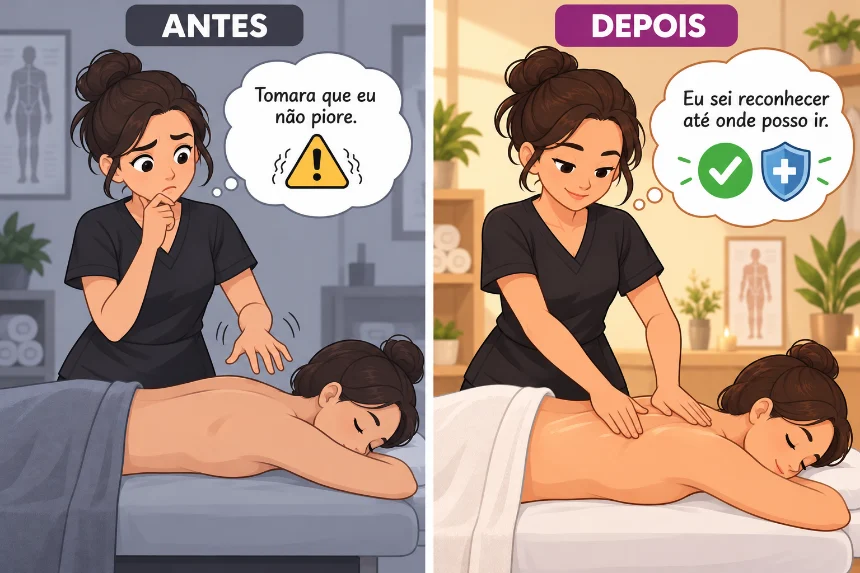
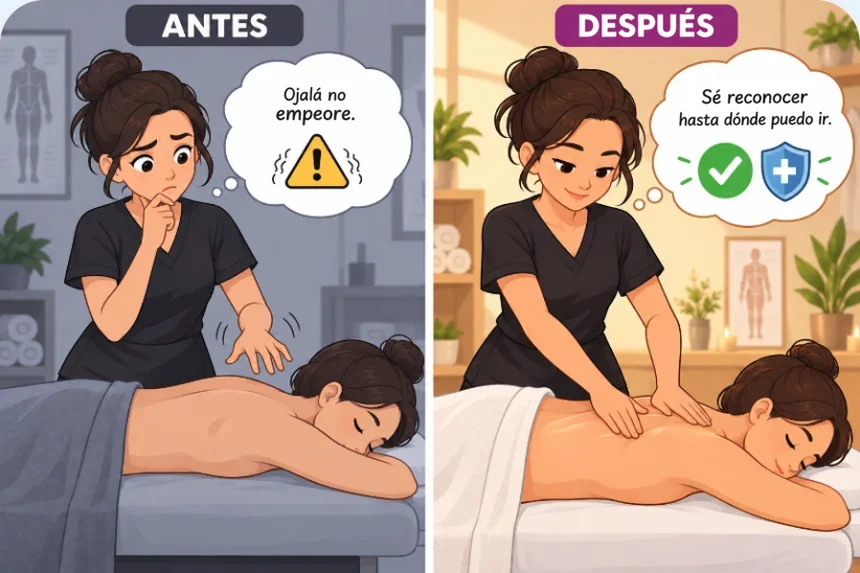
/esp/: os 4 antes e depois da v1 e da v3 entram em espanhol
As quatro ilustrações de antes e depois (inside-1 a inside-4) recebem a
versão em espanhol nas sete páginas que as usam (v1-27, -67, -97, v1-27-sf
e v3-27, -67, -97). Os textos alternativos acompanham as falas novas
("lo consulto al instante en el manual", "voy a consultar mi guía
enseguida", "ojalá no empeore", "sé reconocer hasta dónde puedo ir"). No
índice, a v1 fica só com a compra desativada e a v3 com a VSL.

diff --git a/esp/indice/index.html b/esp/indice/index.html
@@ -357,7 +357,7 @@ body {
           <a class="bloco__url" href="https://exp-gg.topcorpus.com.br/esp/lt-v1-27/"><b>gg</b> exp-gg.topcorpus.com.br/esp/lt-v1-27/</a>
         </div>
         <div class="bloco__pe">
-          <div class="falta"><span>compra desactivada</span><span>4 antes y después en portugués</span></div>
+          <div class="falta"><span>compra desactivada</span></div>
           <div class="copias">
             <button class="cp" type="button" data-copiar="https://exp-fb.topcorpus.com.br/esp/lt-v1-27/">Copiar fb</button>
             <button class="cp" type="button" data-copiar="https://exp-gg.topcorpus.com.br/esp/lt-v1-27/">Copiar gg</button>
@@ -378,7 +378,7 @@ body {
           <a class="bloco__url" href="https://exp-gg.topcorpus.com.br/esp/lt-v1-67/"><b>gg</b> exp-gg.topcorpus.com.br/esp/lt-v1-67/</a>
         </div>
         <div class="bloco__pe">
-          <div class="falta"><span>compra desactivada</span><span>4 antes y después en portugués</span></div>
+          <div class="falta"><span>compra desactivada</span></div>
           <div class="copias">
             <button class="cp" type="button" data-copiar="https://exp-fb.topcorpus.com.br/esp/lt-v1-67/">Copiar fb</button>
             <button class="cp" type="button" data-copiar="https://exp-gg.topcorpus.com.br/esp/lt-v1-67/">Copiar gg</button>
@@ -399,7 +399,7 @@ body {
           <a class="bloco__url" href="https://exp-gg.topcorpus.com.br/esp/lt-v1-97/"><b>gg</b> exp-gg.topcorpus.com.br/esp/lt-v1-97/</a>
         </div>
         <div class="bloco__pe">
-          <div class="falta"><span>compra desactivada</span><span>4 antes y después en portugués</span></div>
+          <div class="falta"><span>compra desactivada</span></div>
           <div class="copias">
             <button class="cp" type="button" data-copiar="https://exp-fb.topcorpus.com.br/esp/lt-v1-97/">Copiar fb</button>
             <button class="cp" type="button" data-copiar="https://exp-gg.topcorpus.com.br/esp/lt-v1-97/">Copiar gg</button>
@@ -507,7 +507,7 @@ body {
           <a class="bloco__url" href="https://exp-gg.topcorpus.com.br/esp/lt-v3-27/"><b>gg</b> exp-gg.topcorpus.com.br/esp/lt-v3-27/</a>
         </div>
         <div class="bloco__pe">
-          <div class="falta"><span>compra desactivada</span><span>4 antes y después y el VSL en portugués</span></div>
+          <div class="falta"><span>compra desactivada</span><span>VSL en portugués</span></div>
           <div class="copias">
             <button class="cp" type="button" data-copiar="https://exp-fb.topcorpus.com.br/esp/lt-v3-27/">Copiar fb</button>
             <button class="cp" type="button" data-copiar="https://exp-gg.topcorpus.com.br/esp/lt-v3-27/">Copiar gg</button>
@@ -528,7 +528,7 @@ body {
           <a class="bloco__url" href="https://exp-gg.topcorpus.com.br/esp/lt-v3-67/"><b>gg</b> exp-gg.topcorpus.com.br/esp/lt-v3-67/</a>
         </div>
         <div class="bloco__pe">
-          <div class="falta"><span>compra desactivada</span><span>4 antes y después y el VSL en portugués</span></div>
+          <div class="falta"><span>compra desactivada</span><span>VSL en portugués</span></div>
           <div class="copias">
             <button class="cp" type="button" data-copiar="https://exp-fb.topcorpus.com.br/esp/lt-v3-67/">Copiar fb</button>
             <button class="cp" type="button" data-copiar="https://exp-gg.topcorpus.com.br/esp/lt-v3-67/">Copiar gg</button>
@@ -549,7 +549,7 @@ body {
           <a class="bloco__url" href="https://exp-gg.topcorpus.com.br/esp/lt-v3-97/"><b>gg</b> exp-gg.topcorpus.com.br/esp/lt-v3-97/</a>
         </div>
         <div class="bloco__pe">
-          <div class="falta"><span>compra desactivada</span><span>4 antes y después y el VSL en portugués</span></div>
+          <div class="falta"><span>compra desactivada</span><span>VSL en portugués</span></div>
           <div class="copias">
             <button class="cp" type="button" data-copiar="https://exp-fb.topcorpus.com.br/esp/lt-v3-97/">Copiar fb</button>
             <button class="cp" type="button" data-copiar="https://exp-gg.topcorpus.com.br/esp/lt-v3-97/">Copiar gg</button>
@@ -636,7 +636,7 @@ body {
           <a class="bloco__url" href="https://exp-gg.topcorpus.com.br/esp/lt-v1-27-sf/"><b>gg</b> exp-gg.topcorpus.com.br/esp/lt-v1-27-sf/</a>
         </div>
         <div class="bloco__pe">
-          <div class="falta"><span>compra desactivada</span><span>4 antes y después en portugués</span></div>
+          <div class="falta"><span>compra desactivada</span></div>
           <div class="copias">
             <button class="cp" type="button" data-copiar="https://exp-fb.topcorpus.com.br/esp/lt-v1-27-sf/">Copiar fb</button>
             <button class="cp" type="button" data-copiar="https://exp-gg.topcorpus.com.br/esp/lt-v1-27-sf/">Copiar gg</button>

diff --git a/esp/lt-v1-27-sf/index.html b/esp/lt-v1-27-sf/index.html
@@ -130,7 +130,7 @@
           <article class="tp-inside__card" data-reveal>
             <div class="tp-inside__media">
               <img src="assets/img/inside-1-aplicacoes.webp"
-                   alt="Antes y después. Antes: la masajista interrumpe la sesión y piensa &ldquo;tengo que buscar un video para saber la respuesta ya&rdquo;. Después: sigue dando el masaje y piensa &ldquo;lo consulto directo en el manual, en el momento&rdquo;."
+                   alt="Antes y después. Antes: la masajista interrumpe la sesión y piensa &ldquo;necesito buscar un video para saber la respuesta ahora&rdquo;. Después: sigue dando el masaje y piensa &ldquo;lo consulto al instante en el manual&rdquo;."
                    width="860" height="573" loading="lazy" decoding="async" />
             </div>
             <p class="tp-inside__text"><strong>Más de 70 maniobras para tratar distintas regiones del cuerpo.</strong> Para cada una: dónde duele, dónde tocar, cómo tocar, qué presión usar y por cuánto tiempo.</p>
@@ -139,7 +139,7 @@
           <article class="tp-inside__card" data-reveal>
             <div class="tp-inside__media">
               <img src="assets/img/inside-2-cobertura.webp"
-                   alt="Antes y después. Antes: la masajista detiene la sesión y piensa &ldquo;tengo que buscar un video&rdquo;. Después: señala el punto exacto en la espalda de la clienta, con la musculatura resaltada, y piensa &ldquo;déjame abrir mi referencia rapidito&rdquo;."
+                   alt="Antes y después. Antes: la masajista detiene la sesión y piensa &ldquo;necesito buscar un video&rdquo;. Después: señala el punto exacto en la espalda de la clienta, con la musculatura resaltada, y piensa &ldquo;voy a consultar mi guía enseguida&rdquo;."
                    width="860" height="573" loading="lazy" decoding="async" />
             </div>
             <p class="tp-inside__text"><strong>No importa dónde esté el dolor, vas a saber resolverlo.</strong> Vas directo a la región que necesitas, de la cabeza a los pies, sin buscar videos guardados en el celular, capturas de pantalla ni notas sueltas.</p>
@@ -157,7 +157,7 @@
           <article class="tp-inside__card" data-reveal>
             <div class="tp-inside__media">
               <img src="assets/img/inside-4-seguranca.webp"
-                   alt="Antes y después. Antes: la masajista duda frente a una señal de alerta y piensa &ldquo;ojalá no lo empeore&rdquo;. Después: atiende con seguridad y piensa &ldquo;sé reconocer hasta dónde puedo llegar&rdquo;."
+                   alt="Antes y después. Antes: la masajista duda frente a una señal de alerta y piensa &ldquo;ojalá no empeore&rdquo;. Después: atiende con seguridad y piensa &ldquo;sé reconocer hasta dónde puedo ir&rdquo;."
                    width="860" height="573" loading="lazy" decoding="async" />
             </div>
             <p class="tp-inside__text"><strong>Alertas de seguridad.</strong> El manual muestra cuándo <strong>NO</strong> dar masaje: inflamación, sospecha de fractura, señales de trombosis y otras situaciones que piden más cuidado, para que no te quedes con la duda de si puedes tocar ahí.</p>

diff --git a/esp/lt-v1-27/index.html b/esp/lt-v1-27/index.html
@@ -130,7 +130,7 @@
           <article class="tp-inside__card" data-reveal>
             <div class="tp-inside__media">
               <img src="assets/img/inside-1-aplicacoes.webp"
-                   alt="Antes y después. Antes: la masajista interrumpe la sesión y piensa &ldquo;tengo que buscar un video para saber la respuesta ya&rdquo;. Después: sigue dando el masaje y piensa &ldquo;lo consulto directo en el manual, en el momento&rdquo;."
+                   alt="Antes y después. Antes: la masajista interrumpe la sesión y piensa &ldquo;necesito buscar un video para saber la respuesta ahora&rdquo;. Después: sigue dando el masaje y piensa &ldquo;lo consulto al instante en el manual&rdquo;."
                    width="860" height="573" loading="lazy" decoding="async" />
             </div>
             <p class="tp-inside__text"><strong>Más de 70 maniobras para tratar distintas regiones del cuerpo.</strong> Para cada una: dónde duele, dónde tocar, cómo tocar, qué presión usar y por cuánto tiempo.</p>
@@ -139,7 +139,7 @@
           <article class="tp-inside__card" data-reveal>
             <div class="tp-inside__media">
               <img src="assets/img/inside-2-cobertura.webp"
-                   alt="Antes y después. Antes: la masajista detiene la sesión y piensa &ldquo;tengo que buscar un video&rdquo;. Después: señala el punto exacto en la espalda de la clienta, con la musculatura resaltada, y piensa &ldquo;déjame abrir mi referencia rapidito&rdquo;."
+                   alt="Antes y después. Antes: la masajista detiene la sesión y piensa &ldquo;necesito buscar un video&rdquo;. Después: señala el punto exacto en la espalda de la clienta, con la musculatura resaltada, y piensa &ldquo;voy a consultar mi guía enseguida&rdquo;."
                    width="860" height="573" loading="lazy" decoding="async" />
             </div>
             <p class="tp-inside__text"><strong>No importa dónde esté el dolor, vas a saber resolverlo.</strong> Vas directo a la región que necesitas, de la cabeza a los pies, sin buscar videos guardados en el celular, capturas de pantalla ni notas sueltas.</p>
@@ -157,7 +157,7 @@
           <article class="tp-inside__card" data-reveal>
             <div class="tp-inside__media">
               <img src="assets/img/inside-4-seguranca.webp"
-                   alt="Antes y después. Antes: la masajista duda frente a una señal de alerta y piensa &ldquo;ojalá no lo empeore&rdquo;. Después: atiende con seguridad y piensa &ldquo;sé reconocer hasta dónde puedo llegar&rdquo;."
+                   alt="Antes y después. Antes: la masajista duda frente a una señal de alerta y piensa &ldquo;ojalá no empeore&rdquo;. Después: atiende con seguridad y piensa &ldquo;sé reconocer hasta dónde puedo ir&rdquo;."
                    width="860" height="573" loading="lazy" decoding="async" />
             </div>
             <p class="tp-inside__text"><strong>Alertas de seguridad.</strong> El manual muestra cuándo <strong>NO</strong> dar masaje: inflamación, sospecha de fractura, señales de trombosis y otras situaciones que piden más cuidado, para que no te quedes con la duda de si puedes tocar ahí.</p>

diff --git a/esp/lt-v1-67/index.html b/esp/lt-v1-67/index.html
@@ -130,7 +130,7 @@
           <article class="tp-inside__card" data-reveal>
             <div class="tp-inside__media">
               <img src="assets/img/inside-1-aplicacoes.webp"
-                   alt="Antes y después. Antes: la masajista interrumpe la sesión y piensa &ldquo;tengo que buscar un video para saber la respuesta ya&rdquo;. Después: sigue dando el masaje y piensa &ldquo;lo consulto directo en el manual, en el momento&rdquo;."
+                   alt="Antes y después. Antes: la masajista interrumpe la sesión y piensa &ldquo;necesito buscar un video para saber la respuesta ahora&rdquo;. Después: sigue dando el masaje y piensa &ldquo;lo consulto al instante en el manual&rdquo;."
                    width="860" height="573" loading="lazy" decoding="async" />
             </div>
             <p class="tp-inside__text"><strong>Más de 70 maniobras para tratar distintas regiones del cuerpo.</strong> Para cada una: dónde duele, dónde tocar, cómo tocar, qué presión usar y por cuánto tiempo.</p>
@@ -139,7 +139,7 @@
           <article class="tp-inside__card" data-reveal>
             <div class="tp-inside__media">
               <img src="assets/img/inside-2-cobertura.webp"
-                   alt="Antes y después. Antes: la masajista detiene la sesión y piensa &ldquo;tengo que buscar un video&rdquo;. Después: señala el punto exacto en la espalda de la clienta, con la musculatura resaltada, y piensa &ldquo;déjame abrir mi referencia rapidito&rdquo;."
+                   alt="Antes y después. Antes: la masajista detiene la sesión y piensa &ldquo;necesito buscar un video&rdquo;. Después: señala el punto exacto en la espalda de la clienta, con la musculatura resaltada, y piensa &ldquo;voy a consultar mi guía enseguida&rdquo;."
                    width="860" height="573" loading="lazy" decoding="async" />
             </div>
             <p class="tp-inside__text"><strong>No importa dónde esté el dolor, vas a saber resolverlo.</strong> Vas directo a la región que necesitas, de la cabeza a los pies, sin buscar videos guardados en el celular, capturas de pantalla ni notas sueltas.</p>
@@ -157,7 +157,7 @@
           <article class="tp-inside__card" data-reveal>
             <div class="tp-inside__media">
               <img src="assets/img/inside-4-seguranca.webp"
-                   alt="Antes y después. Antes: la masajista duda frente a una señal de alerta y piensa &ldquo;ojalá no lo empeore&rdquo;. Después: atiende con seguridad y piensa &ldquo;sé reconocer hasta dónde puedo llegar&rdquo;."
+                   alt="Antes y después. Antes: la masajista duda frente a una señal de alerta y piensa &ldquo;ojalá no empeore&rdquo;. Después: atiende con seguridad y piensa &ldquo;sé reconocer hasta dónde puedo ir&rdquo;."
                    width="860" height="573" loading="lazy" decoding="async" />
             </div>
             <p class="tp-inside__text"><strong>Alertas de seguridad.</strong> El manual muestra cuándo <strong>NO</strong> dar masaje: inflamación, sospecha de fractura, señales de trombosis y otras situaciones que piden más cuidado, para que no te quedes con la duda de si puedes tocar ahí.</p>

diff --git a/esp/lt-v1-97/index.html b/esp/lt-v1-97/index.html
@@ -130,7 +130,7 @@
           <article class="tp-inside__card" data-reveal>
             <div class="tp-inside__media">
               <img src="assets/img/inside-1-aplicacoes.webp"
-                   alt="Antes y después. Antes: la masajista interrumpe la sesión y piensa &ldquo;tengo que buscar un video para saber la respuesta ya&rdquo;. Después: sigue dando el masaje y piensa &ldquo;lo consulto directo en el manual, en el momento&rdquo;."
+                   alt="Antes y después. Antes: la masajista interrumpe la sesión y piensa &ldquo;necesito buscar un video para saber la respuesta ahora&rdquo;. Después: sigue dando el masaje y piensa &ldquo;lo consulto al instante en el manual&rdquo;."
                    width="860" height="573" loading="lazy" decoding="async" />
             </div>
             <p class="tp-inside__text"><strong>Más de 70 maniobras para tratar distintas regiones del cuerpo.</strong> Para cada una: dónde duele, dónde tocar, cómo tocar, qué presión usar y por cuánto tiempo.</p>
@@ -139,7 +139,7 @@
           <article class="tp-inside__card" data-reveal>
             <div class="tp-inside__media">
               <img src="assets/img/inside-2-cobertura.webp"
-                   alt="Antes y después. Antes: la masajista detiene la sesión y piensa &ldquo;tengo que buscar un video&rdquo;. Después: señala el punto exacto en la espalda de la clienta, con la musculatura resaltada, y piensa &ldquo;déjame abrir mi referencia rapidito&rdquo;."
+                   alt="Antes y después. Antes: la masajista detiene la sesión y piensa &ldquo;necesito buscar un video&rdquo;. Después: señala el punto exacto en la espalda de la clienta, con la musculatura resaltada, y piensa &ldquo;voy a consultar mi guía enseguida&rdquo;."
                    width="860" height="573" loading="lazy" decoding="async" />
             </div>
             <p class="tp-inside__text"><strong>No importa dónde esté el dolor, vas a saber resolverlo.</strong> Vas directo a la región que necesitas, de la cabeza a los pies, sin buscar videos guardados en el celular, capturas de pantalla ni notas sueltas.</p>
@@ -157,7 +157,7 @@
           <article class="tp-inside__card" data-reveal>
             <div class="tp-inside__media">
               <img src="assets/img/inside-4-seguranca.webp"
-                   alt="Antes y después. Antes: la masajista duda frente a una señal de alerta y piensa &ldquo;ojalá no lo empeore&rdquo;. Después: atiende con seguridad y piensa &ldquo;sé reconocer hasta dónde puedo llegar&rdquo;."
+                   alt="Antes y después. Antes: la masajista duda frente a una señal de alerta y piensa &ldquo;ojalá no empeore&rdquo;. Después: atiende con seguridad y piensa &ldquo;sé reconocer hasta dónde puedo ir&rdquo;."
                    width="860" height="573" loading="lazy" decoding="async" />
             </div>
             <p class="tp-inside__text"><strong>Alertas de seguridad.</strong> El manual muestra cuándo <strong>NO</strong> dar masaje: inflamación, sospecha de fractura, señales de trombosis y otras situaciones que piden más cuidado, para que no te quedes con la duda de si puedes tocar ahí.</p>

diff --git a/esp/lt-v3-27/index.html b/esp/lt-v3-27/index.html
@@ -138,7 +138,7 @@
           <article class="tp-inside__card" data-reveal>
             <div class="tp-inside__media">
               <img src="assets/img/inside-1-aplicacoes.webp"
-                   alt="Antes y después. Antes: la masajista interrumpe la sesión y piensa &ldquo;tengo que buscar un video para saber la respuesta ya&rdquo;. Después: sigue dando el masaje y piensa &ldquo;lo consulto directo en el manual, en el momento&rdquo;."
+                   alt="Antes y después. Antes: la masajista interrumpe la sesión y piensa &ldquo;necesito buscar un video para saber la respuesta ahora&rdquo;. Después: sigue dando el masaje y piensa &ldquo;lo consulto al instante en el manual&rdquo;."
                    width="860" height="573" loading="lazy" decoding="async" />
             </div>
             <p class="tp-inside__text"><strong>Más de 70 maniobras para tratar distintas regiones del cuerpo.</strong> Para cada una: dónde duele, dónde tocar, cómo tocar, qué presión usar y por cuánto tiempo.</p>
@@ -147,7 +147,7 @@
           <article class="tp-inside__card" data-reveal>
             <div class="tp-inside__media">
               <img src="assets/img/inside-2-cobertura.webp"
-                   alt="Antes y después. Antes: la masajista detiene la sesión y piensa &ldquo;tengo que buscar un video&rdquo;. Después: señala el punto exacto en la espalda de la clienta, con la musculatura resaltada, y piensa &ldquo;déjame abrir mi referencia rapidito&rdquo;."
+                   alt="Antes y después. Antes: la masajista detiene la sesión y piensa &ldquo;necesito buscar un video&rdquo;. Después: señala el punto exacto en la espalda de la clienta, con la musculatura resaltada, y piensa &ldquo;voy a consultar mi guía enseguida&rdquo;."
                    width="860" height="573" loading="lazy" decoding="async" />
             </div>
             <p class="tp-inside__text"><strong>No importa dónde esté el dolor, vas a saber resolverlo.</strong> Vas directo a la región que necesitas, de la cabeza a los pies, sin buscar videos guardados en el celular, capturas de pantalla ni notas sueltas.</p>
@@ -165,7 +165,7 @@
           <article class="tp-inside__card" data-reveal>
             <div class="tp-inside__media">
               <img src="assets/img/inside-4-seguranca.webp"
-                   alt="Antes y después. Antes: la masajista duda frente a una señal de alerta y piensa &ldquo;ojalá no lo empeore&rdquo;. Después: atiende con seguridad y piensa &ldquo;sé reconocer hasta dónde puedo llegar&rdquo;."
+                   alt="Antes y después. Antes: la masajista duda frente a una señal de alerta y piensa &ldquo;ojalá no empeore&rdquo;. Después: atiende con seguridad y piensa &ldquo;sé reconocer hasta dónde puedo ir&rdquo;."
                    width="860" height="573" loading="lazy" decoding="async" />
             </div>
             <p class="tp-inside__text"><strong>Alertas de seguridad.</strong> El manual muestra cuándo <strong>NO</strong> dar masaje: inflamación, sospecha de fractura, señales de trombosis y otras situaciones que piden más cuidado, para que no te quedes con la duda de si puedes tocar ahí.</p>

diff --git a/esp/lt-v3-67/index.html b/esp/lt-v3-67/index.html
@@ -138,7 +138,7 @@
           <article class="tp-inside__card" data-reveal>
             <div class="tp-inside__media">
               <img src="assets/img/inside-1-aplicacoes.webp"
-                   alt="Antes y después. Antes: la masajista interrumpe la sesión y piensa &ldquo;tengo que buscar un video para saber la respuesta ya&rdquo;. Después: sigue dando el masaje y piensa &ldquo;lo consulto directo en el manual, en el momento&rdquo;."
+                   alt="Antes y después. Antes: la masajista interrumpe la sesión y piensa &ldquo;necesito buscar un video para saber la respuesta ahora&rdquo;. Después: sigue dando el masaje y piensa &ldquo;lo consulto al instante en el manual&rdquo;."
                    width="860" height="573" loading="lazy" decoding="async" />
             </div>
             <p class="tp-inside__text"><strong>Más de 70 maniobras para tratar distintas regiones del cuerpo.</strong> Para cada una: dónde duele, dónde tocar, cómo tocar, qué presión usar y por cuánto tiempo.</p>
@@ -147,7 +147,7 @@
           <article class="tp-inside__card" data-reveal>
             <div class="tp-inside__media">
               <img src="assets/img/inside-2-cobertura.webp"
-                   alt="Antes y después. Antes: la masajista detiene la sesión y piensa &ldquo;tengo que buscar un video&rdquo;. Después: señala el punto exacto en la espalda de la clienta, con la musculatura resaltada, y piensa &ldquo;déjame abrir mi referencia rapidito&rdquo;."
+                   alt="Antes y después. Antes: la masajista detiene la sesión y piensa &ldquo;necesito buscar un video&rdquo;. Después: señala el punto exacto en la espalda de la clienta, con la musculatura resaltada, y piensa &ldquo;voy a consultar mi guía enseguida&rdquo;."
                    width="860" height="573" loading="lazy" decoding="async" />
             </div>
             <p class="tp-inside__text"><strong>No importa dónde esté el dolor, vas a saber resolverlo.</strong> Vas directo a la región que necesitas, de la cabeza a los pies, sin buscar videos guardados en el celular, capturas de pantalla ni notas sueltas.</p>
@@ -165,7 +165,7 @@
           <article class="tp-inside__card" data-reveal>
             <div class="tp-inside__media">
               <img src="assets/img/inside-4-seguranca.webp"
-                   alt="Antes y después. Antes: la masajista duda frente a una señal de alerta y piensa &ldquo;ojalá no lo empeore&rdquo;. Después: atiende con seguridad y piensa &ldquo;sé reconocer hasta dónde puedo llegar&rdquo;."
+                   alt="Antes y después. Antes: la masajista duda frente a una señal de alerta y piensa &ldquo;ojalá no empeore&rdquo;. Después: atiende con seguridad y piensa &ldquo;sé reconocer hasta dónde puedo ir&rdquo;."
                    width="860" height="573" loading="lazy" decoding="async" />
             </div>
             <p class="tp-inside__text"><strong>Alertas de seguridad.</strong> El manual muestra cuándo <strong>NO</strong> dar masaje: inflamación, sospecha de fractura, señales de trombosis y otras situaciones que piden más cuidado, para que no te quedes con la duda de si puedes tocar ahí.</p>

diff --git a/esp/lt-v3-97/index.html b/esp/lt-v3-97/index.html
@@ -138,7 +138,7 @@
           <article class="tp-inside__card" data-reveal>
             <div class="tp-inside__media">
               <img src="assets/img/inside-1-aplicacoes.webp"
-                   alt="Antes y después. Antes: la masajista interrumpe la sesión y piensa &ldquo;tengo que buscar un video para saber la respuesta ya&rdquo;. Después: sigue dando el masaje y piensa &ldquo;lo consulto directo en el manual, en el momento&rdquo;."
+                   alt="Antes y después. Antes: la masajista interrumpe la sesión y piensa &ldquo;necesito buscar un video para saber la respuesta ahora&rdquo;. Después: sigue dando el masaje y piensa &ldquo;lo consulto al instante en el manual&rdquo;."
                    width="860" height="573" loading="lazy" decoding="async" />
             </div>
             <p class="tp-inside__text"><strong>Más de 70 maniobras para tratar distintas regiones del cuerpo.</strong> Para cada una: dónde duele, dónde tocar, cómo tocar, qué presión usar y por cuánto tiempo.</p>
@@ -147,7 +147,7 @@
           <article class="tp-inside__card" data-reveal>
             <div class="tp-inside__media">
               <img src="assets/img/inside-2-cobertura.webp"
-                   alt="Antes y después. Antes: la masajista detiene la sesión y piensa &ldquo;tengo que buscar un video&rdquo;. Después: señala el punto exacto en la espalda de la clienta, con la musculatura resaltada, y piensa &ldquo;déjame abrir mi referencia rapidito&rdquo;."
+                   alt="Antes y después. Antes: la masajista detiene la sesión y piensa &ldquo;necesito buscar un video&rdquo;. Después: señala el punto exacto en la espalda de la clienta, con la musculatura resaltada, y piensa &ldquo;voy a consultar mi guía enseguida&rdquo;."
                    width="860" height="573" loading="lazy" decoding="async" />
             </div>
             <p class="tp-inside__text"><strong>No importa dónde esté el dolor, vas a saber resolverlo.</strong> Vas directo a la región que necesitas, de la cabeza a los pies, sin buscar videos guardados en el celular, capturas de pantalla ni notas sueltas.</p>
@@ -165,7 +165,7 @@
           <article class="tp-inside__card" data-reveal>
             <div class="tp-inside__media">
               <img src="assets/img/inside-4-seguranca.webp"
-                   alt="Antes y después. Antes: la masajista duda frente a una señal de alerta y piensa &ldquo;ojalá no lo empeore&rdquo;. Después: atiende con seguridad y piensa &ldquo;sé reconocer hasta dónde puedo llegar&rdquo;."
+                   alt="Antes y después. Antes: la masajista duda frente a una señal de alerta y piensa &ldquo;ojalá no empeore&rdquo;. Después: atiende con seguridad y piensa &ldquo;sé reconocer hasta dónde puedo ir&rdquo;."
                    width="860" height="573" loading="lazy" decoding="async" />
             </div>
             <p class="tp-inside__text"><strong>Alertas de seguridad.</strong> El manual muestra cuándo <strong>NO</strong> dar masaje: inflamación, sospecha de fractura, señales de trombosis y otras situaciones que piden más cuidado, para que no te quedes con la duda de si puedes tocar ahí.</p>
